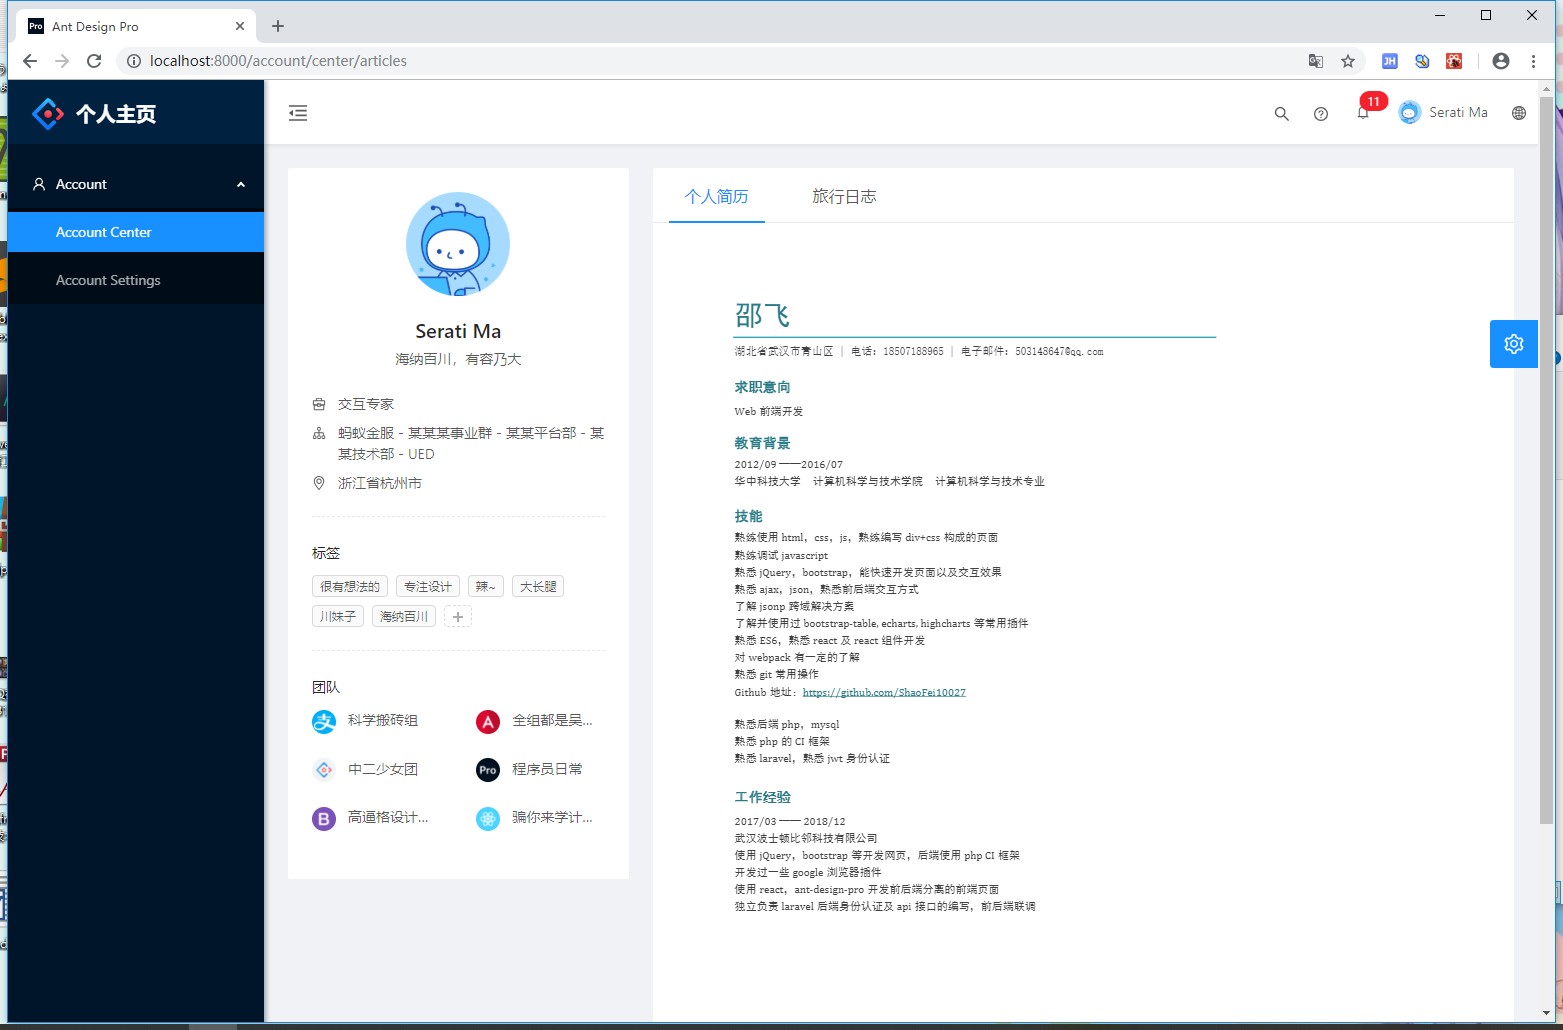
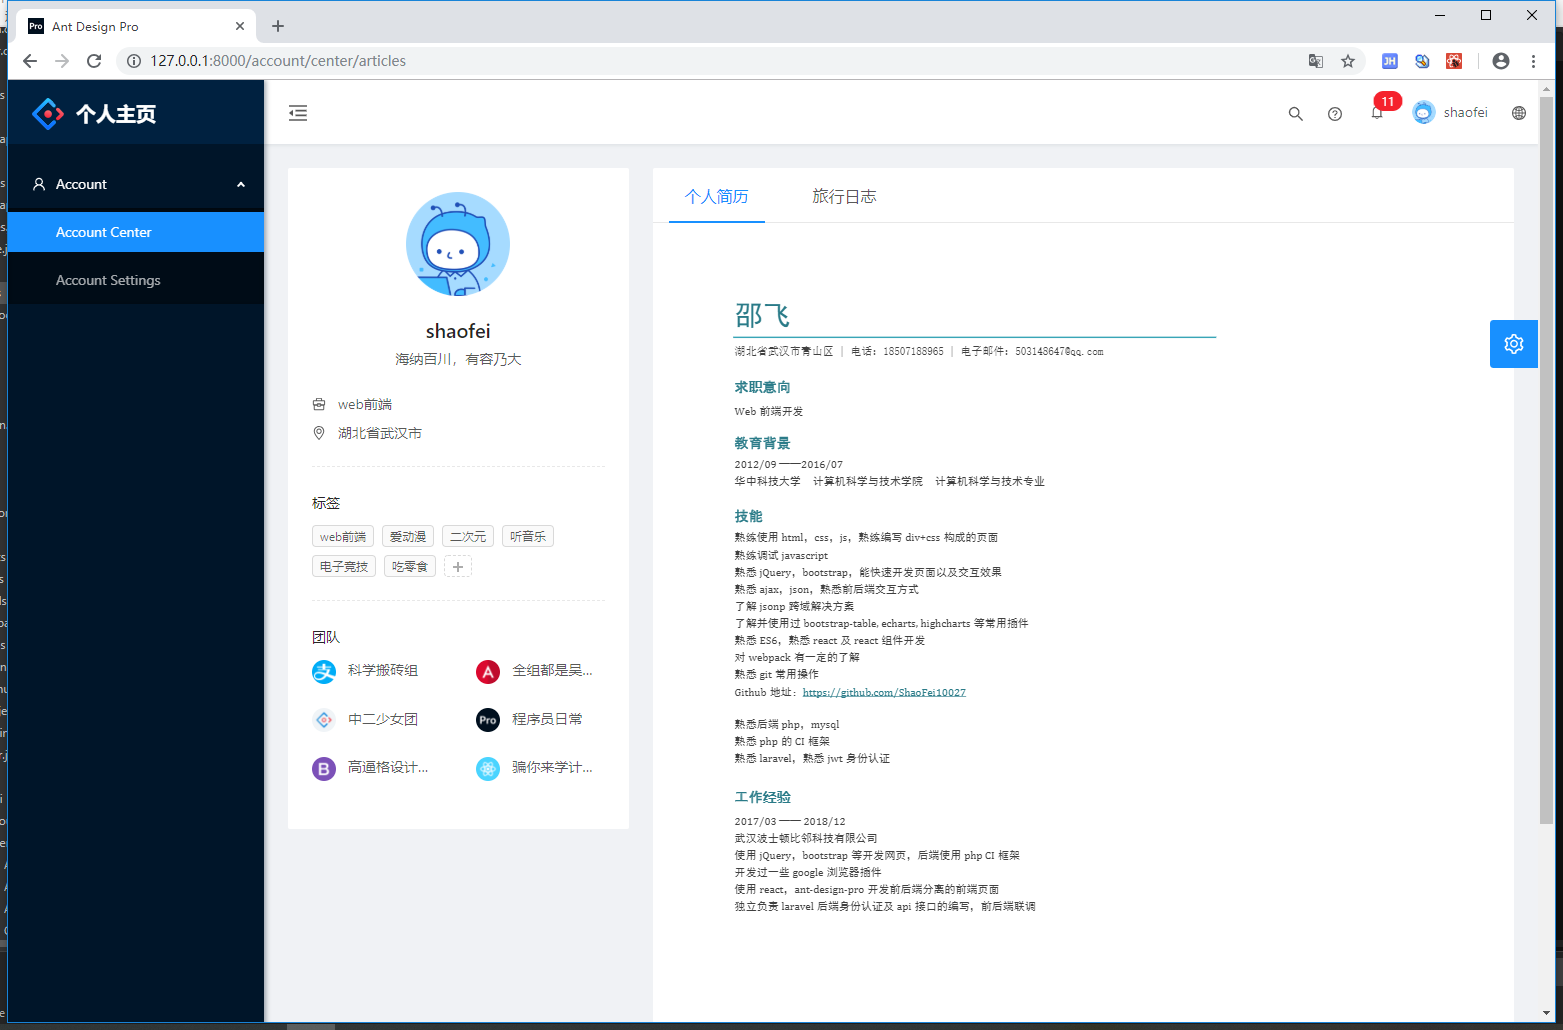
update personal info

diff --git a/mock/user.js b/mock/user.js
@@ -2,37 +2,36 @@
 export default {
   // 支持值为 Object 和 Array
   'GET /api/currentUser': {
-    name: 'Serati Ma',
+    name: 'shaofei',
     avatar: 'https://gw.alipayobjects.com/zos/rmsportal/BiazfanxmamNRoxxVxka.png',
     userid: '00000001',
-    email: 'antdesign@alipay.com',
+    email: '503148647@qq.com',
     signature: '海纳百川，有容乃大',
-    title: '交互专家',
-    group: '蚂蚁金服－某某某事业群－某某平台部－某某技术部－UED',
+    title: 'web前端',
     tags: [
       {
         key: '0',
-        label: '很有想法的',
+        label: 'web前端',
       },
       {
         key: '1',
-        label: '专注设计',
+        label: '爱动漫',
       },
       {
         key: '2',
-        label: '辣~',
+        label: '二次元',
       },
       {
         key: '3',
-        label: '大长腿',
+        label: '听音乐',
       },
       {
         key: '4',
-        label: '川妹子',
+        label: '电子竞技',
       },
       {
         key: '5',
-        label: '海纳百川',
+        label: '吃零食',
       },
     ],
     notifyCount: 12,
@@ -40,11 +39,11 @@ export default {
     country: 'China',
     geographic: {
       province: {
-        label: '浙江省',
+        label: '湖北省',
         key: '330000',
       },
       city: {
-        label: '杭州市',
+        label: '武汉市',
         key: '330100',
       },
     },
@@ -82,7 +81,7 @@ export default {
     ],
     text: {
       湖北: ["2016-01-01", "备注文字湖北旅游略"],
-      北京: ["2017-01-01", "备注文字北京旅游略"]
+      北京: ["2017-01-01", "备注文字北京旅游略略略"]
     }
   },
   'GET /api/myTra': (req, res) => {
